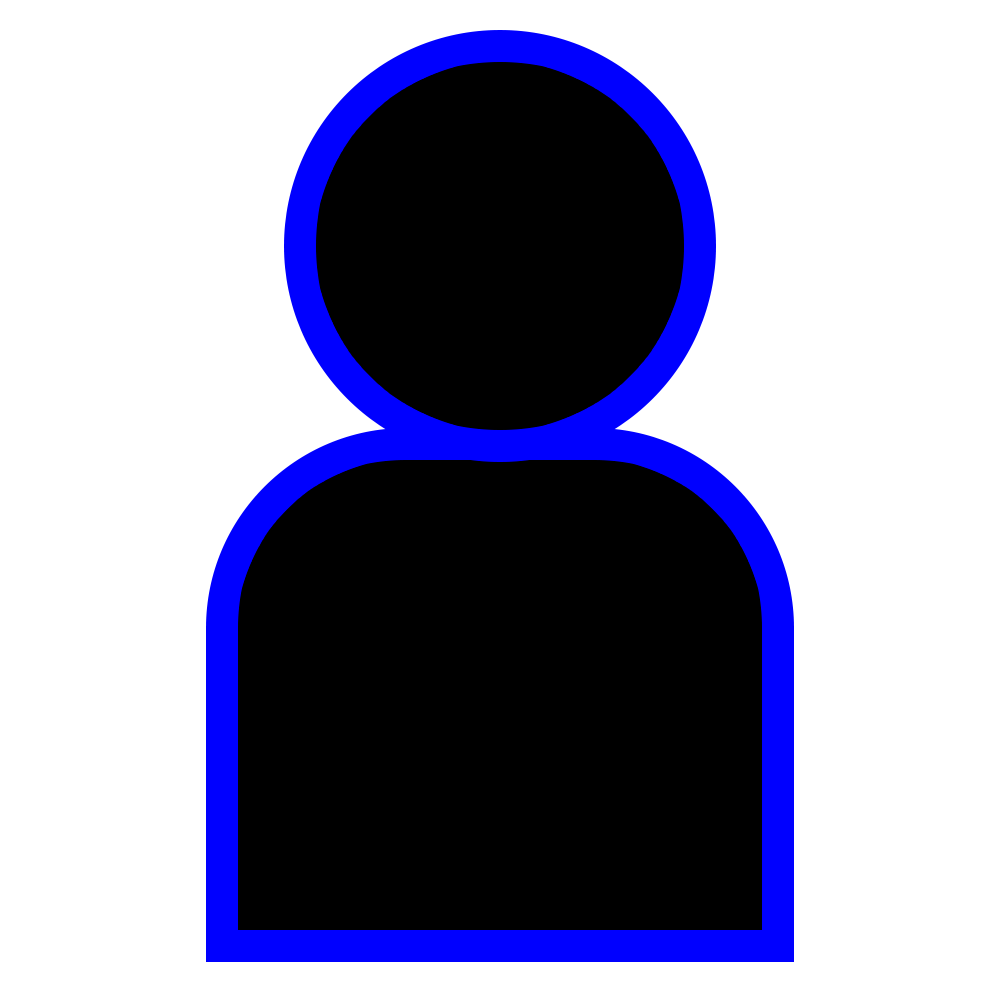
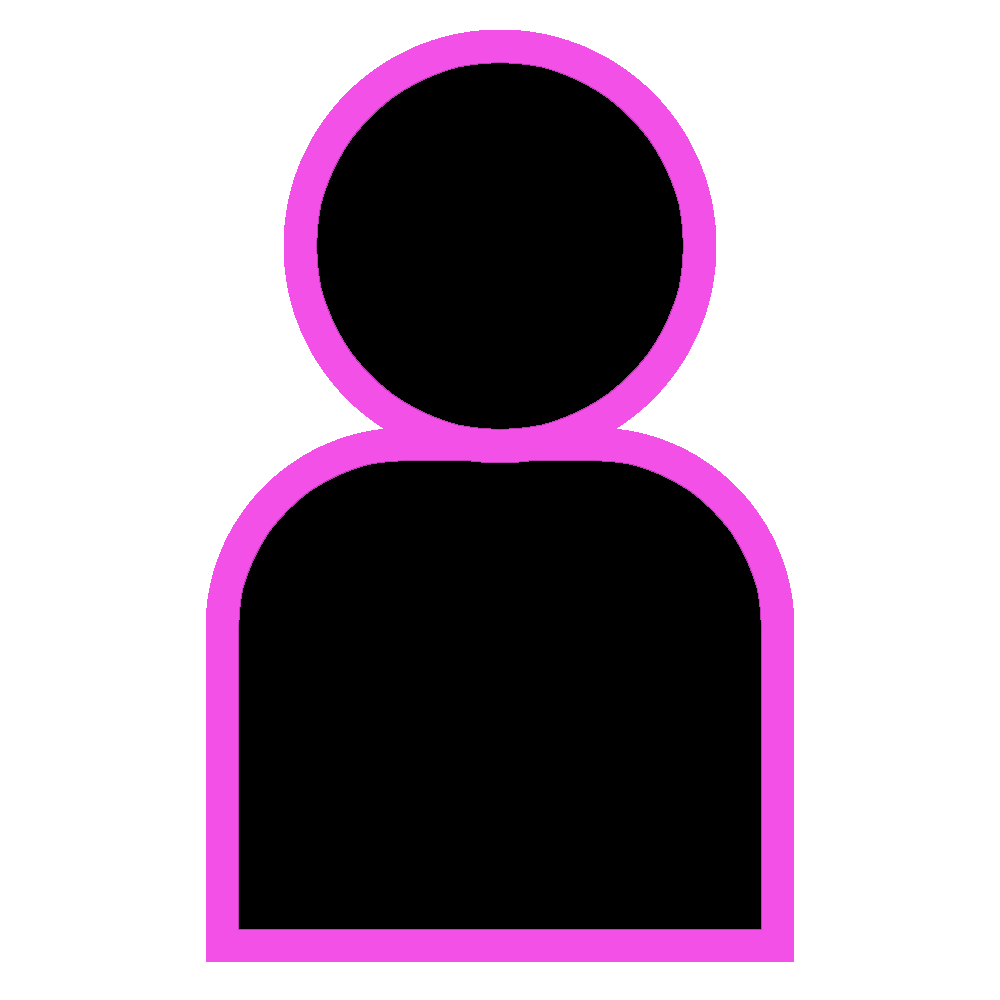
farver

Changed region(s): [[0.186, 0.031, 0.806, 0.961]]

diff --git a/src/Forside.js b/src/Forside.js
@@ -1,39 +1,40 @@
 
-import logo2 from './chaat.png';
-import logo3 from './controoler.png';
+import logo2 from './chaatlilla.png';
+import logo3 from './controolerlilla.png';
 import logo4 from './profilimg.png';
 
 import { Link } from "react-router-dom";
 
 function Forside() {
-    return (
-      <>
+  return (
+    <>
+      <div className="text-center">
         <h1>Vælg hvad du vil</h1>
-        <div className="row text-center">
-          <div className="col">
-            <Link to="/chat">
-              <img src={logo2} className="img-fluid" style={{ width: 350 }} alt="" />
-            </Link>
-            <h1>Chat</h1>
-          </div>
-          <div className="col">
-            <Link to="/pagethree">
-              <img src={logo3} className="img-fluid" style={{ width: 350 }} alt="" />
-            </Link>
-            <h1>Finder</h1>
-          </div>
-          <div className="col">
-            <Link to="/profil">
-              <img src={logo4} className="img-fluid" style={{ width: 350 }} alt="" />
-            </Link>
-            <h1>Profil</h1>
-          </div>
+      </div>
+      <div className="row text-center">
+        <div className="col">
+          <Link to="/chat">
+            <img src={logo2} className="img-fluid" style={{ width: 350 }} alt="" />
+          </Link>
+          <h1>Chat</h1>
         </div>
-  
-  
-      </>
-    );
-  }
+        <div className="col">
+          <Link to="/pagethree">
+            <img src={logo3} className="img-fluid" style={{ width: 350 }} alt="" />
+          </Link>
+          <h1>Finder</h1>
+        </div>
+        <div className="col">
+          <Link to="/profil">
+            <img src={logo4} className="img-fluid" style={{ width: 350 }} alt="" />
+          </Link>
+          <h1>Profil</h1>
+        </div>
+      </div>
 
-  export default Forside;
-  
+
+    </>
+  );
+}
+
+export default Forside;

diff --git a/src/App.css b/src/App.css
@@ -2,6 +2,16 @@
   text-align: center;
 }
 
+.btn-primary {
+  background-color: rgb(166, 5, 155)!important;
+  color: white;
+}
+
+.btn-lg{
+background-color: rgb(166, 5, 155) !important;
+  color: white;
+
+}
 
 .App-logo {
   height: 40vmin;
@@ -26,7 +36,7 @@
 }
 
 #root{
-  background-color: rgb(255, 255, 255) !important;
+  background-color: rgb(0, 151, 167) !important;
   min-height: 100vh;
 }
 

diff --git a/src/styles.css b/src/styles.css
@@ -1,7 +1,14 @@
 .btn-xxl {
+    background-color: rgb(166, 5, 155);
     font-size: 3rem;
     padding: 1rem 1.5rem;
 }
+.btn-primary{
+background-color: rgb(166, 5, 155);
+color: white;
+}
+
+
 
 .btn-forsideet {
     background-color: purple;
@@ -16,3 +23,4 @@
 .navItem {
     color: rgb(132, 15, 15);
 }
+
